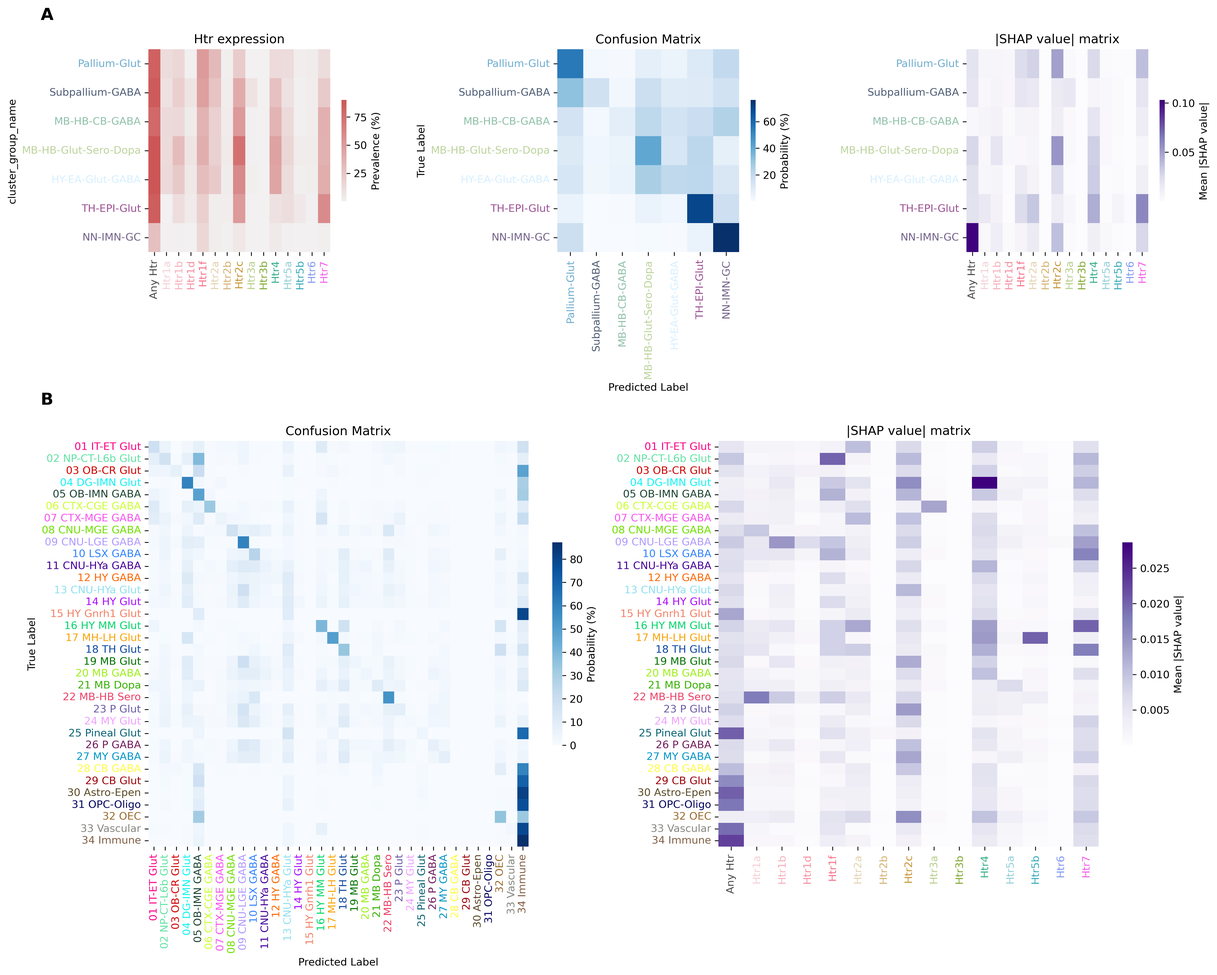
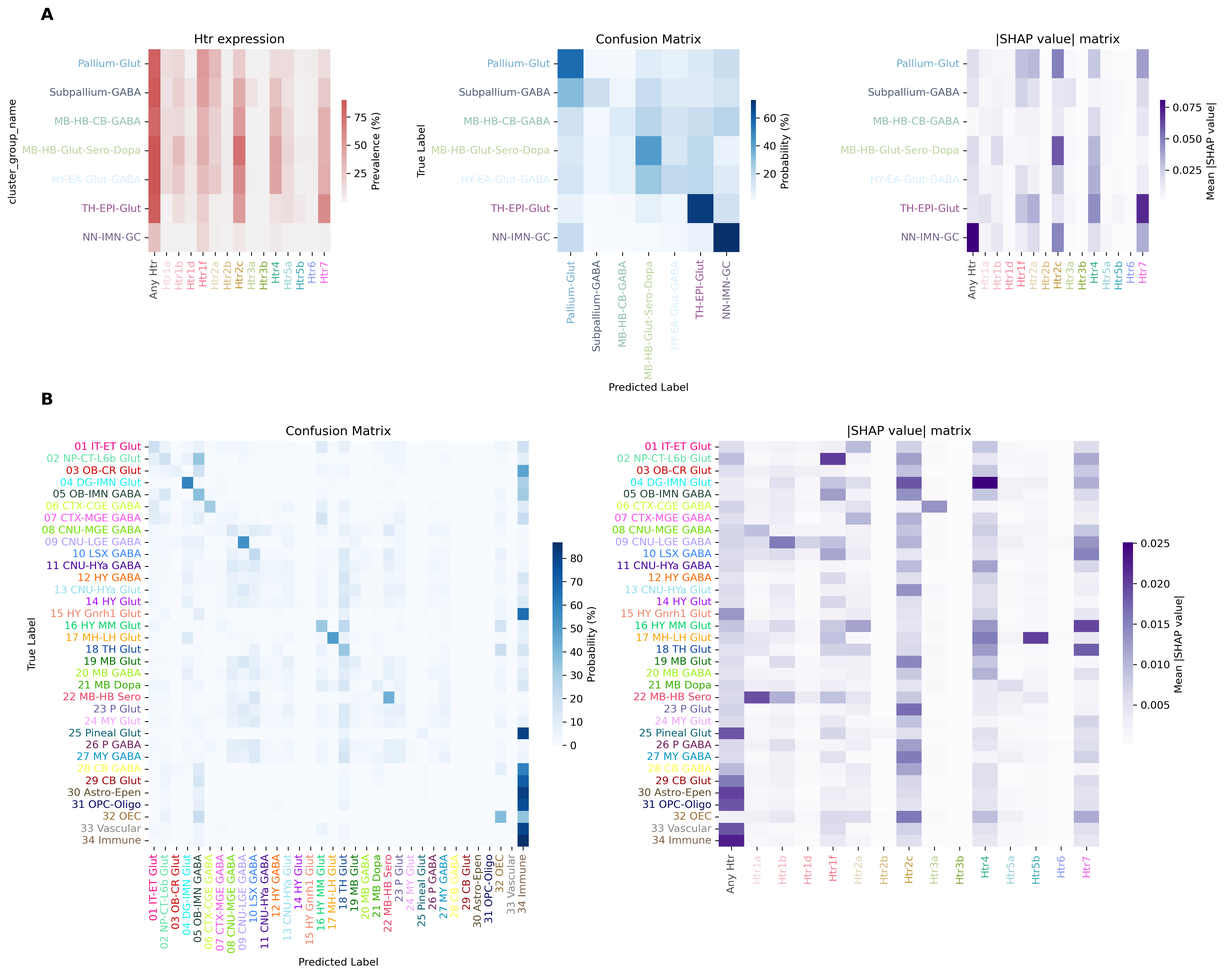
General update with many bug fixes.

diff --git a/Manuscript/methods.py b/Manuscript/methods.py
@@ -15,7 +15,7 @@ methods = {"Jupyter notebooks structure": "The entire analysis is contained in 2
                                                       "(see 'Load_data/Download_RNAseq_data.ipynb'). We also loaded the metadata relative to the "
                                                       "'cluster_group_name' (or 'neighborhood' in the text) residing originally in a different .csv file ('Find membership df' in 'Figure_1.ipynb'). "
                                                       "This information is referred to as 'membership'. "
-                                                      "Each of this data structure is a pandas dataframe that can be easily joined together according to the unique "
+                                                      "Each of this data structure is a Pandas dataframe that can be easily joined together according to the unique "
                                                       "cell label index ('joined' dataframe). A different dataframe containing membership information is created ('joined_with_membership'), "
                                                       "this is necessary because some cells are assigned to multiple 'cluster_group_name' and therefore cause the duplication of the dataframe´s rows. "
                                                       "We used the dataframe containing 'membership information' only to visualize information relative to 'cluster_group_name'. \n"
@@ -23,46 +23,49 @@ methods = {"Jupyter notebooks structure": "The entire analysis is contained in 2
                                             "This dataset is split in 4 different dataframes ('Zhuang-ABCA-1', "
                                             "'Zhuang-ABCA-2', 'Zhuang-ABCA-3' and 'Zhuang-ABCA-4') stored in a dictionary ('cell_expression'). "
                                             "We concatenated the 4 dataframe in one data structure called 'data_merfish' "
-                                            "using the '.concat()' pandas method. Additionally, we used the spatial information of each cell belonging to the MERFISH dataset for "
+                                            "using the '.concat()' Pandas method. Additionally, we used the spatial information of each cell belonging to the MERFISH dataset for "
                                                              "the registration to the Allen Mouse Brain Common Coordinate Framework (CCF) and, subsequently, "
-                                                             "we assigned parcellations labels ('CCF registration and parcellation annotation' in 'Figure_2.ipynb'). ",
+                                                             "we assigned parcellations labels ('CCF registration and parcellation annotation' in 'Figure_2.ipynb'). The dataframes loaded by both datasets "
+                                            "already included all the clustering labels (class, subclass, supertype and cluster). For details about the clustering see 'Clustering scRNA-seq data' section in {Yao, 2023 #2886}. ",
 
             "Overview figure": "This figure relies uniquely on the scRNA-seq dataset. "
                                                       "In panel A we used a heatmap to visualize both the amount of transcription per cell and the number of cells transcribing each Htr "
                                                       "contained in the dataset using the 'exp' dataframe. "
                                                      "\nIn panel B we used the precomputed UMAP coordinates available in the 'joined' dataframe and plotted on the color axis information about the "
                                                       "most transcribed gene per selected family (either Ht1 or Ht2). \n"
-                                                      "In panel C and D we plotted the percentage of cells transcribing each Htr grouped by neurotransmitter release. "
-                                                        "We take advantage of the pandas 'Group by' "
+                                                      "In panel C we plotted the percentage of cells transcribing each Htr grouped by neurotransmitter release. "
+                                                        "We take advantage of the Pandas 'Group by' "
                                                       "function to concisely perform this computation: after grouping by the selected variable (in this case 'neurotransmitter') we apply a function called "
                                                       "'percentage_above_threshold' to compute the percentage of cells within a group expressing a gene above a threshold. "
                                                       "The 'percentage_above_threshold' function is defined within the "
                                                       "'Utils.Utils.py' file. "
                                                       "The threshold is stored in the 'Utils.Settings.py' file ('threshold_expression'). "
-                                                      "The confusion matrix is computed within the 'decodddit' function in 'Figure_1.ipynb'. "
-                                                     "Here we use a boolean version of the 'joined' dataframe created using "
+                                                      "The confusion matrix is computed within the 'decoddddddd' function defined in Utils.Utils.py. "
+                                                     "This function uses a boolean version of the 'joined' dataframe created using "
                                                       "the same threshold ('threshold_expression'). The dataset containing boolean values for gene expression (joined_boolean) was "
                                                       "filtered to include columns of interest, specifically a selector column (sel) and a list of selected genes (selected_genes)."
                                                       " The resulting dataframe was indexed by the selector column, which represented the target variable (neurotransmitter type), "
                                                       "while the remaining columns contained features corresponding to the expression levels of various serotonin receptor genes (Htr). "
-                                                      "The features for classification were defined as the boolean expression of the various 5-HT receptor genes, and the target variable was "
-                                                      "the neurotransmitter type. The dataset was divided into training and testing sets using a stratified sampling approach to ensure that "
-                                                      "the class distribution of the target variable was maintained in both subsets. The test set comprised 5% of the total data. A Random "
-                                                      "Forest classifier was initialized with parameters set to 200 decision trees and a maximum tree depth of 10. "
-                                                     "The classifier was configured to handle class imbalances by adjusting the class weights. The model "
+                                                      "In this particular case, the features for classification were defined as the boolean expression of the various 5-HT receptor genes, and the target variable was "
+                                                      "the neurotransmitter type. A Random Forest classifier was initialized with 200 estimators, a maximum depth of 10, balanced class weights, and parallel processing across 20 jobs. "
+                                                        "Linear models such as 'LogisticRegression' and 'LinearDiscriminantAnalysis' were found to underperfom the Random Forest classifier (see 'Test linear models' in Figure_1.ipynb). "
+                               "Using Stratified K-Fold cross-validation with 5 ('n_splits' set in Utils.Settings.py) folds, balanced accuracy scores were computed, and the mean accuracy was reported. The model "
                                                       "was then trained using the training data. The trained Random Forest model was used to predict the neurotransmitter types on the test "
-                                                      "dataset. The performance of the model was evaluated by comparing the predicted labels with the actual labels. The accuracy of the model "
-                                                      "was calculated and transcribed as a percentage. Additionally, a comprehensive classification report was generated, providing metrics such as "
+                                                      "dataset. Predictions were generated with cross-validation. "
+                               "The performance of the model was evaluated by comparing the predicted labels with the actual labels. "
+                               " Additionally, a comprehensive classification report was generated, providing metrics such as "
                                                       "precision, recall, and F1-score for each class. A confusion matrix, normalized by the true labels, was also produced to visualize the model's"
-                                                      " classification performance across different neurotransmitter types. The data manipulation and analysis were conducted using the pandas "
+                                                      " classification performance across different neurotransmitter types. The data manipulation and analysis were conducted using the Pandas "
                                                       "library. The machine learning model was implemented using the scikit-learn library, specifically the RandomForestClassifier for"
-                                                      " classification tasks. The evaluation of the model's performance was performed using scikit-learn's 'accuracy score', 'classification report', "
-                                                      "and 'confusion matrix' functions. SHAP (SHapley Additive exPlanations) values were calculated to interpret the feature "
+                                                      " classification tasks. The evaluation of the model's performance was performed using scikit-learn's 'balanced_accuracy_score', 'classification_report', "
+                                                      "and 'confusion_matrix' functions. SHAP (SHapley Additive exPlanations) values were calculated to interpret the feature "
                                                       "importance of the Random Forest classifier. An explainer object was created using SHAP's 'TreeExplainer', which was specifically "
                                                       "designed for tree-based models. The explainer was initialized with the trained Random Forest classifier, and the number of parallel "
-                                                      "jobs was set to 40 to leverage computational resources effectively. The SHAP values were computed for a sample of the feature set "# TODO rewrite the decoding part
+                                                      "jobs was set to 40 to leverage computational resources effectively. The SHAP values were computed for a sample of the feature set "
+                                                        "of 10,000 observations based on class weights "
                                                       "('X_sample'). These values indicate the contribution of each feature to the model's predictions. \n"
-                                                      "In panel E we plot the correlation between transcription of different Htr genes by using the pandas 'corr()' method. \n"
+                                                     "In panel D we plotted the percentage of cells transcribing each Htr grouped by class label, additional plots related to classification accuracy were computed following the instructions of the previous panel and are available as supplementary figure.  "
+                                                      "In panel E we plotted the correlation between transcription of different Htr genes by using the Pandas 'corr()' method. \n"
                                                       "To plot the co-localization data of panel F a dictionary named 'coexp' was initialized to store the co-localization results. "
                                                       "This dictionary would eventually hold the percentage of co-localization for each pair of genes. A nested "
                                                       "loop was employed to iterate through each pair of selected genes, excluding a placeholder category labeled "
@@ -75,7 +78,7 @@ methods = {"Jupyter notebooks structure": "The entire analysis is contained in 2
                                                       "provided the percentage of samples where the gene pair was co-transcribed relative to the expression of the "
                                                       "target gene. Storing Results: The computed co-localization percentage for each gene pair was stored in the "
                                                       "coexp dictionary with the gene pair as the key. After computing the co-localization percentages for all gene "
-                                                      "pairs, the results were converted into a pandas dataframe for further analysis and visualization. The same colocalization "
+                                                      "pairs, the results were converted into a Pandas dataframe for further analysis and visualization. The same colocalization "
                                                       "was used in the barplots of panel G. \n"
                                                       "For panel H we aggregated Htr expression by family by aggregating the expression levels of specific serotonin "
                                                       "receptor genes. These genes were grouped into four primary families: Htr1/5: Summing the expression levels of "
@@ -155,7 +158,7 @@ methods = {"Jupyter notebooks structure": "The entire analysis is contained in 2
                                                                                                                               "patterns across these key sections.",
 
            "Data Visualizer":   "The visualizer was built in Python using Matplotlib, Holoviews and Panel libraries. It is available as a jupyter notebook ('Figures/Interactive_vizs.ipynb') and online. "
-                                "The jupyter notebook can be used by following the installation instructions available in https://github.com/RobertoDF/Transcriptomics-5-HT. "
+                                "The jupyter notebook can be used locally by following the installation instructions available in https://github.com/RobertoDF/Transcriptomics-5-HT. "
                                 "The visualizer is deployed and accessible online on the Hugging Face portal. "
                                 "It is organized in 4 different tabs: 'Spatial MERFISH', 'Gene by class/subclass/supertype/cluster', "
                                 "'Overview genes by class' and 'Overview genes by brain structure'. "

diff --git a/Manuscript/results.py b/Manuscript/results.py
@@ -26,7 +26,8 @@ results = {"Htrs transcription overview":
                "as neurotransmitter-release {Yao, 2023 #2886}, offer a condensed categorization of cell types (Figure S1B, Table 1). "
                f"When looking at the UMAP distributions of individual Htr, considerable differences were also present within each family of receptors (Figure S2). "
                f"We analyzed these differences grouping cells by "
-               "neurotransmitter, neighborhood or class (Figure S1B). The totality of cells were divided in 34 classes (as defined in {Yao, 2023 #2886}). "
+               "neurotransmitter, neighborhood or class (Figure S1B). The cells were subdivided into four nested levels of classification (as defined in {Yao, 2023 #2886}) with "
+               "34 classes, 338 subclasses, 1,201 supertypes and 5,322 clusters. "
                "These categorizations divided cells in a highly skewed fashion (Figure S1C). "
                f"For example, when looking at neurotransmitter-release, "
                f"3 groups (Glut, Gaba and unassigned) made up almost the totality of cells "
@@ -128,12 +129,13 @@ results = {"Htrs transcription overview":
                           "nonetheless, cortical excitatory neurons (01 IT-ET Glut), "
                           "like in the majority of Htrs, "
                           "contained the highest absolute number of cells transcribing the receptor. Subclasses located in the hippocampus (HPF) "
-                          "contained most of the cortical cells transcribing Htr1a (see online visualizer, 'Overview genes by class'). "
+                          "contained most of the cortical cells transcribing Htr1a (see interactive visualizer, 'Overview genes by class'). "
                           "To pinpoint the spatial location, we first identified in the scRNA-seq dataset the clusters highly enriched with Htr1a RNA with "
                           f"a threshold of {threshold_enriched_clusters}%, i.e., to be classified as enriched at least {threshold_enriched_clusters}% of cells in "
-                          f"a cluster must express the receptor. "
+                          "a cluster must express the receptor. Taking advantage of the clustering label integration between the scRNAseq and MERFISH dataset (see {Zhang, 2023 #2887}), "
+                          "we could identify the spatial distribution of cells belonging to enriched clusters defined using the scRNAseq. "
                           f"Only {perc_enriched_htr1a}% of Htr1a transcribing cells were contained in enriched clusters, "
-                          f"pointing at a relatively low importance of this receptor in the clustering algorithm. "
+                          "pointing at a relatively low importance of this receptor in the clustering algorithm used by {Yao, 2023 #2886}. "
                           "Looking at the spatial distribution across divisions, the highest prevalence was found in the pallidum (PAL) and HPF (Figure 2D). "
                           "At a more granular level, 5 of the top 10 structures by prevalence belonged to the raphe nuclei: dorsal nucleus raphe (DR), "
                           "nucleus raphe obscurus (RO), nucleus raphe pallidus (RPA), "
@@ -146,7 +148,9 @@ results = {"Htrs transcription overview":
                           "Notably, "
                           "all these results confirms previous reports of Htr1a expression in the raphe {Haj-Dahmane, 1991 #2924;Sprouse, 1987 #2923}, ENTm {Schmitz, 1995 #2925; de Filippo, 2021 #1086} "
                           "and MS {Kia, 1996 #2926}. "
-                          "Levels of of transcription were stable across the anterior-posterior axis like in most other Htrs (Figure 2E-F). \n"
+                          "Levels of of transcription were stable across the anterior-posterior axis like in most other Htrs (Figure 2E-F). "
+                          "We offer the option to bypass the scRNA-seq enriched cluster calculations and directly view the prevalence "
+                          "of all cells expressing the selected gene in the MERFISH dataset using the interactive visualizer (see 'Overview genes by brain structure'). \n"
                           
                           "Htr1b is involved in social memory persistance in mouse {Wu, 2021 #2945}. Htr1b exhibited a more diverse pattern of transcription across neighborhoods (Figure 3A) ranging from 10 to 30%. "
                           "Highest prevalence was observed in the MB-HB-Glut-Sero-Dopa group, i.e., "
@@ -160,7 +164,7 @@ results = {"Htrs transcription overview":
                           f"only minimal transcription in this class ({round(joined.groupby('class')['Htr1a'].apply(percentage_above_threshold)['09 CNU-LGE GABA'], 2)}%). "
                           f"Also in this case, 01 IT-ET Glut exhibited the highest absolute number of Htr1b expressing cells, specifically, in a subclass "
                           f"of the nucleus of the lateral olfactory tract "
-                          f"(NLOT, see online visualizer, 'Overview genes by class'). "
+                          f"(NLOT, see interactive visualizer, 'Overview genes by class'). "
                           f"{perc_enriched_htr1b}% of Htr1b transcribing cells belonged to highly enriched clusters and the "
                           f"striatum (STR) showed an impressive high prevalence with "
                           ">30% (Figure 3D), in line with previous reports {Maroteaux, 1992 #2928;Pommer, 2021 #2927}. "
@@ -185,12 +189,13 @@ results = {"Htrs transcription overview":
                           f"decreased linearly with the number of co-transcribed Htrs (Figure 4B). "
                           f"Notably, the slope of the linear regression between values provided by scRNA-seq and MERFISH was "
                           f"significantly lower pointing at a difference in absolute prevalence per class (Figure 4C). "
+                          f"This differences are imputed to the different technique employed (see https://community.brain-map.org/t/consistent-difference-in-expression-between-zhuang-and-zeng-merfish-datasets/2604/2). "
                           f"The two datasets are, however, still highly correlated, with 66% of shared variability. "
                           f"This was the case also for Htr2a, Htr2c and Htr4. Htr1f was broadly transcribed across almost all classes, "
                           f"including some non-neuronal cells. Pineal gland cells were a notable exception. "
                           f"In absolute numbers, cortical glutamatergic cells showed the highest transcription. "
                           f"Various subclasses located in L5, claustrum (CLA) and HPF exhibited prevalence >50% "
-                          f"(see online visualizer, 'Overview genes by class'). "
+                          f"(see interactive visualizer, 'Overview genes by class'). "
                           f"Spatial distribution showed a peculiarly asymmetric pattern with transcription concentrated in the most anterior regions. "
                           f"Highest transcription was observed in STR, olfactory areas (OLF) and the cortical subplate (CTXsp) "
                           f"reaching >20% (Figure 4D). Specifically, the highest transcription was observed in nucleus accumbens (ACB) and olfactory tract (OT), similarly to Htr1b. "
@@ -200,7 +205,7 @@ results = {"Htrs transcription overview":
                           f"Interestingly, in the CTXsp, transcription in Glut and Gaba neurons was anticorrelated. High prevalence in Glut neurons "
                           f"corresponded to lower prevalence in Gaba "
                           f"and vice versa. In CLA and EPd HTR1f was transcribed mainly in Glut neurons, while in the amygdala (LA, BLA, BMA) predominantly in Gaba neurons "
-                          f"(see online visualizer, 'Overview genes by brain structure'). "
+                          f"(see interactive visualizer, 'Overview genes by brain structure'). "
                           f"Isocortex and HPF "
                           f"also exhibited considerable transcription both in excitatory and inhibitory neurons. The amount of RNA "
                           f"transcription per cell was not linear, with a clear peak in the frontal olfactory areas (Figure 4E-F). High transcription of Htr1f in this region "
@@ -230,7 +235,7 @@ results = {"Htrs transcription overview":
                    "while exhibiting a relatively low prevalence at the subclass level, contained various clusters "
                    "with >70% prevalence {De Filippo, 2024 #2904}. Htr2a was also prevalent across many other classes across the whole brain. "
                    "01 IT-ET Glut exhibited by far the highest absolute number "
-                   "of neurons transcribing Htr2a, specifically in subclasses of L5 and CLA, resembling Htr1f (see online visualizer, 'Overview genes by class'). "
+                   "of neurons transcribing Htr2a, specifically in subclasses of L5 and CLA, resembling Htr1f (see interactive visualizer, 'Overview genes by class'). "
                    "CTXsp showed the highest prevalence, reaching >12% (Figure 5D). Isocortex and STR exhibited both ≈5% prevalence. "
                    "At a structure level, two structures belonging to the mammillary complex "
                    "(dorsal premammillary nucleus, PMd and tuberomammillary nucleus,TMd) were in the top ten by prevalence. The mammillary complex "
@@ -255,7 +260,7 @@ results = {"Htrs transcription overview":
                    f"Many classes exhibited a >60% prevalence. "
                    "As usual, cortical excitatory neurons exhibited the highest absolute number "
                    f"of cells expressing Htr2c. Some subclasses in OLF, amygdala and retrosplenial cortex (RSP) "
-                   f"exhibited >80% prevalence (see online visualizer, 'Overview genes by class'). "
+                   f"exhibited >80% prevalence (see interactive visualizer, 'Overview genes by class'). "
                    f"The majority of cells transcribing Htr2c RNA belonged to enriched clusters. "
                    f"Highest prevalence was found in STR. Similarly to Htr1b, ACB, CP and OT exhibited the highest prevalence (Figure 6D-E-F). "
                    f"Isocortex prevalence derived from the "
@@ -273,13 +278,13 @@ results = {"Htrs transcription overview":
                                   "Highest prevalence was found in "
                                   "the 17 MH-LH Glut class, specifically in the Chol releasing neurons belonging to this class located in TH. "
                                   "In absolute numbers, transcription in excitatory cortical neurons was comparable to other classes but still the highest, driven specifically "
-                                  "by subclasses of CA1, CA2, CA3 and subiculum (see online visualizer, 'Overview genes by class').  "
+                                  "by subclasses of CA1, CA2, CA3 and subiculum (see interactive visualizer, 'Overview genes by class').  "
                                   "Spatial distribution exhibited a peculiar pattern "
                                   "with high prevalence in one specific structure of the STR: OT (Figure 7D-E-F). A subclass of interneurons present in OT (060 OT D3 Folh1 Gaba) "
                                   "showed a >98% prevalence. "
                                   "PAL and HPF also exhibited relatively high prevalence (≈10%). "
                                   "Dentate gyrus (DG) granule cells (037 DG Glut) were one of the reasons of the high prevalence in HPF. "
-                                  "Excitatory cells of CA2, CA3 and indusium griseum (IG) also transcribed Htr4 RNA (see online visualizer, 'Overview genes by brain structure'). \n"
+                                  "Excitatory cells of CA2, CA3 and indusium griseum (IG) also transcribed Htr4 RNA (see interactive visualizer, 'Overview genes by brain structure'). \n"
                                   
                                   "We do not have MERFISH information about the rarely transcribed Htr6 and no enriched cluster was "
                                   f"present in the scRNA-seq dataset. The 09 NU-LGE GABA class exhibited the highest prevalence with "
@@ -293,7 +298,7 @@ results = {"Htrs transcription overview":
                                   "It colocalized the most with Htr2c, "
                                   "Htr1f and Htr4. Htr7 was broadly transcribed across classes, especially in subcortical structures. "
                                   "Peak prevalence was found in 10 LSX GABA, 16 MY MM Glut and 18 TH Glut with >60% "
-                                  "(Figure 8C). Cortical expression in excitatory neurons is driven primarily by subclasses in CA2 and L2 ENT (see online visualizer, 'Overview genes by class'). "
+                                  "(Figure 8C). Cortical expression in excitatory neurons is driven primarily by subclasses in CA2 and L2 ENT (see interactive visualizer, 'Overview genes by class'). "
                                   "Htr7 enriched clusters were located mainly in HY and TH (Figure 8D). "
                                   "At a structure level, the parafascicular (PF)  and paraventricular nucleus (PVT) of TH showed the highest prevalence (>30%). ",
 

diff --git a/Utils/Results_variables.py b/Utils/Results_variables.py
@@ -1,11 +1,11 @@
 import os
 os.chdir("..")
-from Utils.Utils import percentage_above_threshold, percentage_above_threshold_MER
+from Utils.Utils import percentage_above_threshold, percentage_above_threshold_MER, decoddddddd
 import time
 import anndata
 from pathlib import Path
 from Utils.Settings import class_to_division, class_to_broad_division, output_folder_calculations, manifest, download_base, \
-    family_name, threshold_expression, threshold_enriched_clusters
+    family_name, threshold_expression, threshold_enriched_clusters, n_splits
 import numpy as np
 import pandas as pd
 from sklearn.model_selection import train_test_split
@@ -286,18 +286,18 @@ color_dict = data_merfish[['parcellation_division_color', 'parcellation_division
 color_dict.update(data_merfish[['parcellation_structure_color', 'parcellation_structure']].drop_duplicates().set_index(
     'parcellation_structure').to_dict()['parcellation_structure_color'])
 
-
+#TODO save these structure otherwise super slow!
 sel = "neurotransmitter"  # "cluster_group_name"#"neurotransmitter"
 
-cm_neurotransmitter, shap_matrix_neurotransmitter, accuracy_neurotransmitter, report_neurotransmitter  = decoddddddd(joined_boolean, sel)
+cm_neurotransmitter, shap_matrix_neurotransmitter, accuracy_neurotransmitter, report_neurotransmitter  = decoddddddd(joined_boolean,  sel, selected_genes, n_splits)
 
 sel = "cluster_group_name"#"class"#"cluster_group_name"#"neurotransmitter"
 
-cm_neighborhood, shap_matrix_neighborhood, accuracy_neighborhood, report_neighborhood = decoddddddd(joined_boolean_with_membership, sel);
+cm_neighborhood, shap_matrix_neighborhood, accuracy_neighborhood, report_neighborhood = decoddddddd(joined_boolean_with_membership, sel, selected_genes, n_splits);
 
 sel = "class"#"class"#"cluster_group_name"#"neurotransmitter"
 
-cm_class, shap_matrix_class, accuracy_class, report_class = decoddddddd(joined_boolean, sel);
+cm_class, shap_matrix_class, accuracy_class, report_class = decoddddddd(joined_boolean,  sel, selected_genes, n_splits);
 
 report_class = pd.DataFrame(report_class)#.loc["recall"]
 

diff --git a/Manuscript/discussion.py b/Manuscript/discussion.py
@@ -22,7 +22,7 @@ discussion = ("In this work we described the main transcriptional features of ea
               "Htr7 is widely transcribed in subcortical structures, especially in some TH nuclei (PF, PVT, IAD and PT), the mammillary complex (MM and PMd), "
               "the lateral septal nucleus (LSv) and the fasciola cinerea of the HPF. "
               "Our analysis is in no way exhaustive, and it is limited in scope by the constraints of a traditional scientific article. To bypass this limit and, at the same time, "
-              "provide the ability to explore the 5-HT transcription landscape at different depths, we provide a custom online visualizer. The visualizer enables "
+              "provide the ability to explore the 5-HT transcription landscape at different depths, we provide a custom interactive visualizer. The visualizer enables "
               "the exploration of: Htrs transcription in the MERFISH dataset; the prevalence of each Htr across neighborhoods, class, subclass, supertype and clusters; "
               "an overview of Htrs prevalence across classes and subclasses; "
               "and an overview of Htrs prevalence across all brain divisions and structures optionally filtered by neurotransmitter release. Our entire "

diff --git a/Manuscript/introduction.py b/Manuscript/introduction.py
@@ -19,7 +19,7 @@ introduction = ("5-HT stands as a pivotal neuromodulator within the brain, orche
                 "transcription and set a new benchmark for examining their distribution "
                 "against the backdrop of existing literature, contributing to our understanding of the complex roles of 5-HT in brain function. "
                 "To facilitate broader custom exploration of the Htr landscape throughout the brain, "
-                "we have developed an online visualization tool that enables the seamless exploration of both the scRNA-seq and MERFISH dataset at different levels of "
-                "granularity, providing a comprehensive view of the 5-HT receptor distribution. ")
+                "we have developed an interactive visualization tool that enables the seamless exploration of both the scRNA-seq and MERFISH dataset at different levels of "
+                "granularity, providing a comprehensive view of the 5-HT receptor distribution. An online version available here (https://rdef654875678597657-5-ht-transcriptomics.hf.space). ")
 
 

diff --git a/Manuscript/abstract.py b/Manuscript/abstract.py
@@ -20,4 +20,4 @@ abstract = ("Serotonin (5-HT) plays a pivotal role in regulating a wide range of
             "even at the single-cell dimension and"
             " provide new insights into the receptor-mediated mechanisms that underpin diverse neural functions and behaviors. To aid the exploration of Htrs "
             "transcription in the datasets "
-            "we provide a custom online visualizer. This tool enables in-depth analysis at various levels of granularity. ")
+            "we provide a custom interactive visualizer. This tool enables in-depth analysis at various levels of granularity. ")
